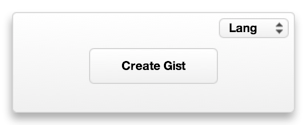
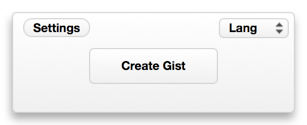
replaced the i button with a settings button

Changed region(s): [[0.0586, 0.144, 0.2932, 0.312], [0.3811, 0.48, 0.6156, 0.576], [0.7329, 0.192, 0.8502, 0.264]]

diff --git a/gist.dcproj/project/widget.wdgt/main.html b/gist.dcproj/project/widget.wdgt/main.html
@@ -15,11 +15,11 @@
 <body onload="load();" apple-part="com.apple.Dashcode.part.StackLayout">
     <div id="front">
         <img id="frontImg" src="Parts/Images/front.png" alt="" apple-locked="true" apple-part="com.apple.Dashcode.part.frontimage" apple-style="image-theme: 1; image-shape: 3; image-opacity: 1.00; image-top-color: 1,1,1,1; image-bottom-color: 0.924825917,0.924825917,0.924825917,1; image-radius: 4,4,4,4; image-border: 1; image-border-color: 0.815217391,0.815217391,0.815217391,1; image-border-width: 1; shine-on: 0; shine-strength: 1.00; shine-alpha-level: 0.09; shine-height: 0.71; glass-arc-height: -0.14; embossed-on: 0; embossed-depth: 1; embossed-shadow: 0.68; embossed-highlight: 0.3; shadow-include-shadow: 1; shadow-offset: -1.00,-6.00; shadow-color: 0,0,0,0.3333;">
-        <div class="apple-no-children" id="info" apple-part="com.apple.Dashcode.part.infobutton" apple-default-image-visibility="hidden"></div>
         <div id="send" apple-part="com.apple.Dashcode.part.roundedtextbutton" class="apple-no-children" apple-style="image-theme: 1; image-shape: 3; image-button-type: 0; image-opacity: 1.00; image-top-color: 1,1,1,1; image-bottom-color: 0.924825917,0.924825917,0.924825917,1; image-radius: 5,5,5,5; image-border: 1; image-border-color: 0.815217391,0.815217391,0.815217391,1; image-border-width: 1; shine-on: 0; shine-strength: 1.00; shine-alpha-level: 0.09; shine-height: 0.50; glass-arc-height: -0.14; embossed-on: 0; embossed-depth: 1; embossed-shadow: 0.68; embossed-highlight: 0.3; shadow-include-shadow: 0;"></div>
         <div id="statustext" apple-part="com.apple.Dashcode.part.text" class="apple-text apple-no-children" apple-default-image-visibility="hidden" apple-text-overflow="ellipsis" apple-style="part-height-dependent: true;"></div>
         <div id="language" apple-part="com.apple.Dashcode.part.roundedpopupbutton" class="apple-no-children" apple-style="image-theme: 1; image-shape: 3; image-button-type: 1; image-opacity: 1.00; image-top-color: 1,1,1,1; image-bottom-color: 0.924825917,0.924825917,0.924825917,1; image-radius: 5,5,5,5; image-border: 1; image-border-color: 0.815217391,0.815217391,0.815217391,1; image-border-width: 1; shine-on: 0; shine-strength: 1.00; shine-alpha-level: 0.09; shine-height: 0.50; glass-arc-height: -0.14; embossed-on: 0; embossed-depth: 1; embossed-shadow: 0.68; embossed-highlight: 0.3; shadow-include-shadow: 0;"></div>
         <div id="user" apple-part="com.apple.Dashcode.part.text" class="apple-text apple-no-children" apple-default-image-visibility="hidden" apple-text-overflow="ellipsis"></div>
+        <div id="button" apple-part="com.apple.Dashcode.part.lozengetextbutton" class="apple-no-children" apple-style="image-theme: 1; image-shape: 1; image-button-type: 0; image-opacity: 1.00; image-top-color: 1,1,1,1; image-bottom-color: 0.924825917,0.924825917,0.924825917,1; image-radius: 9,9,9,9; image-border: 1; image-border-color: 0.815217391,0.815217391,0.815217391,1; image-border-width: 1; shine-on: 0; shine-strength: 1.00; shine-alpha-level: 0.09; shine-height: 0.50; glass-arc-height: -0.14; embossed-on: 0; embossed-depth: 1; embossed-shadow: 0.68; embossed-highlight: 0.3; shadow-include-shadow: 0;"></div>
     </div>
     <div id="back">
         <img id="backImg" src="Parts/Images/back.png" alt="" apple-locked="true" apple-part="com.apple.Dashcode.part.backimage" apple-style=" image-radius: 12,12,12,12; image-border: 1; image-border-color: 0.1500,0.1500,0.1500; image-border-width: 3; shadow-include-shadow: 1; shadow-blur: 9.00; shadow-offset: -1.00,-6.00; shadow-color: 0.0000,0.0000,0.0000,0.3333;">

diff --git a/gist.dcproj/project/widget.wdgt/Parts/parts.js b/gist.dcproj/project/widget.wdgt/Parts/parts.js
@@ -9,7 +9,7 @@
 var dashcodePartSupport = {
     "core": ["Parts/core/utilities.js", "Parts/core/core/base.js", "Parts/core/core/array-additions.js", "Parts/core/core/array-additions-ie.js", "Parts/core/core/set.js", "Parts/core/core/oop.js", "Parts/core/core/function-additions.js", "Parts/core/core/object-additions.js", "Parts/core/core/regex-additions.js", "Parts/core/core/local.js", "Parts/core/core/Error.js", "Parts/core/core/kvo.js", "Parts/core/core/Bindable.js", "Parts/core/core/SortDescriptor.js", "Parts/core/core/transformers.js", "Parts/core/core/Binding.js", "Parts/core/core/kvo-array.js", "Parts/core/core/kvo-array-operators.js", "Parts/core/core/model.js", "Parts/core/core/string-additions.js", "Parts/core/net/Deferred.js", "Parts/core/net/XHR.js", "Parts/core/controllers/Controller.js", "Parts/core/controllers/SelectionProxy.js", "Parts/core/controllers/ObjectController.js", "Parts/core/controllers/ArrayController.js", "Parts/core/controllers/AjaxController.js", "Parts/core/controllers/ModeledXMLProxy.js", "Parts/core/dom/element.js", "Parts/core/dom/event.js", "Parts/core/dom/element-ie.js", "Parts/core/dom/event-ie.js", "Parts/core/views/view-parts.js", "Parts/core/views/view-core.js", "Parts/core/views/Responder.js", "Parts/core/views/View.js", "Parts/core/views/ViewController.js", "Parts/core/views/ImageView.js", "Parts/core/views/ImageLayout.js", "Parts/core/views/DashcodePart.js", "Parts/core/views/FormControl.js", "Parts/core/views/TextField.js", "Parts/core/views/ListView.js", "Parts/core/views/SelectField.js", "Parts/core/views/ToggleButton.js", "Parts/core/views/SearchField.js", "Parts/core/views/Slider.js", "Parts/core/views/EventLoop.js", "Parts/core/views/Page.js", "Parts/core/views/Media.js", "Parts/core/views/Video.js", "Parts/core/views/VideoLayout.js", "Parts/core/views/VideoLegacy.js"],
     "imageBgParts": {},
-    "scripts": ["Parts/setup.js", "Parts/datasources.js", "Parts/InfoButton.js", "Parts/GlassButton.js", "Parts/Button.js", "Parts/PopupButton.js"]
+    "scripts": ["Parts/setup.js", "Parts/datasources.js", "Parts/GlassButton.js", "Parts/Button.js", "Parts/PopupButton.js"]
 };
 
 (function() {
@@ -24,6 +24,7 @@ var dashcodePartSupport = {
         document.write( scriptTag );
     }    
 })();
+
 
 
 

diff --git a/gist.dcproj/project/widget.wdgt/Parts/setup.js b/gist.dcproj/project/widget.wdgt/Parts/setup.js
@@ -6,8 +6,8 @@
  */
 var dashcodePartSpecs = {
     "backstatus": { "view": "DC.Text" },
+    "button": { "creationFunction": "CreateButton", "leftImageWidth": 10, "onclick": "showBack", "rightImageWidth": 10, "text": "Settings" },
     "done": { "creationFunction": "CreateGlassButton", "onclick": "showFront", "text": "Done" },
-    "info": { "backgroundStyle": "white", "creationFunction": "CreateInfoButton", "foregroundStyle": "black", "frontID": "front", "onclick": "showBack" },
     "language": { "creationFunction": "CreatePopupButton", "leftImageWidth": 5, "name": "langSelect", "onchange": "setLang", "options": ["Lang", ["Ruby", ".rb"], ["Python", ".py"], ["PHP", ".php"], ["Java", ".java"], ["HTML", ".html"], ["JavaScript", ".js"], ["C++", ".cpp"], ["C", ".c"], ["HAML", ".haml"], ["CoffeeScript", ".coffee"], ["Perl", ".pl"], ["Go", ".go"], ["C#", ".cs"], ["ERB", ".erb"], ["CSS", ".css"]], "rightImageWidth": 16 },
     "login": { "creationFunction": "CreateButton", "leftImageWidth": 5, "onclick": "authorize", "rightImageWidth": 5, "text": "Login" },
     "logout": { "creationFunction": "CreateButton", "leftImageWidth": 5, "onclick": "deauthorize", "rightImageWidth": 5, "text": "Logout" },
@@ -19,6 +19,7 @@ var dashcodePartSpecs = {
     "unameReq": { "text": "* Required", "view": "DC.Text" },
     "user": { "view": "DC.Text" }
 };
+
 
 
 

diff --git a/gist.dcproj/project/widget.wdgt/main.css b/gist.dcproj/project/widget.wdgt/main.css
@@ -20,17 +20,6 @@ body {
     height: auto;
 }
 
-#info {
-    position: absolute;
-    right: 15px;
-    bottom: 18px;
-    width: 13px;
-    height: 13px;
-    left: 276px;
-    top: 95px;
-    opacity: 1;
-}
-
 #back {
     display: none;
 }
@@ -301,4 +290,20 @@ body {
 
 .selected #user {
     color: white;
+}
+
+#button {
+    font-family: HelveticaNeue-Bold;
+    font-size: 12px;
+    text-align: center;
+    width: 67px;
+    cursor: default;
+    -khtml-user-select: none;
+    height: auto;
+    position: absolute;
+    left: 23px;
+    top: 18px;
+    right: auto;
+    margin-top: 0px;
+    bottom: 88px;
 }
